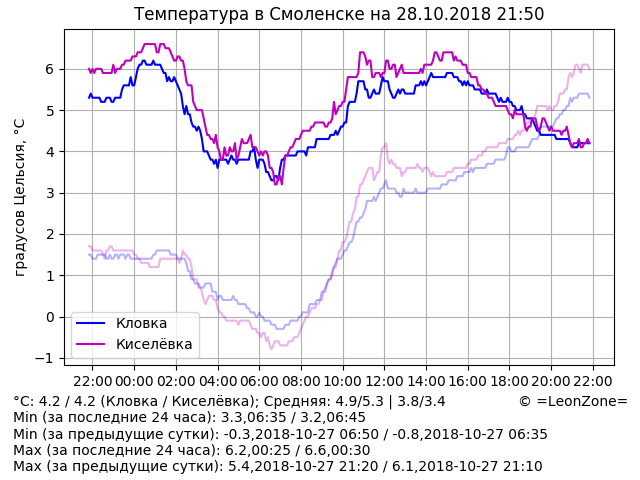
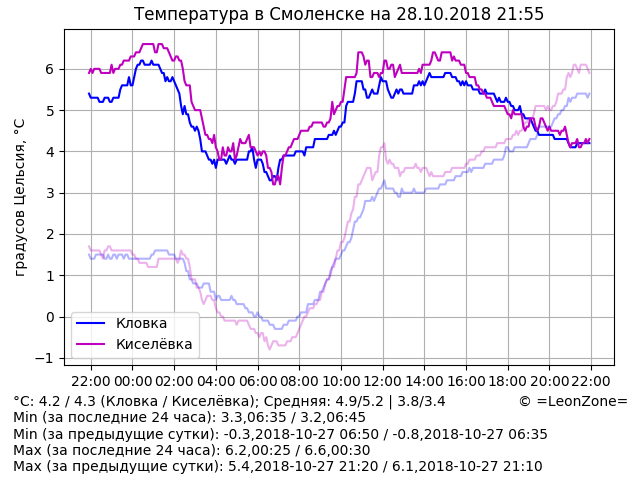
Update data

Changed region(s): [[0.125, 0.0625, 0.9375, 0.7188], [0.0938, 0.7812, 0.9688, 0.8438], [0.125, 0.5, 0.375, 0.6562]]

diff --git a/index.html b/index.html
@@ -14,7 +14,7 @@
 	<p align="center"><script>document.write("<img src=\"graph.png?rnd="+Math.random()+"\" alt=\"Температура в Смоленске\" align=\"middle\" width=\"640\" height=\"480\" />")</script>
 	<p hidden="true">
 <!-- textinfo -->
-°C: 4.2 / 4.2 (Кловка / Киселёвка); Средняя: 4.9/5.3 | 3.8/3.4
+°C: 4.2 / 4.3 (Кловка / Киселёвка); Средняя: 4.9/5.2 | 3.8/3.4
 Min (за последние 24 часа): 3.3,06:35 / 3.2,06:45
 Min (за предыдущие сутки): -0.3,2018-10-27 06:50 / -0.8,2018-10-27 06:35
 Max (за последние 24 часа): 6.2,00:25 / 6.6,00:30
